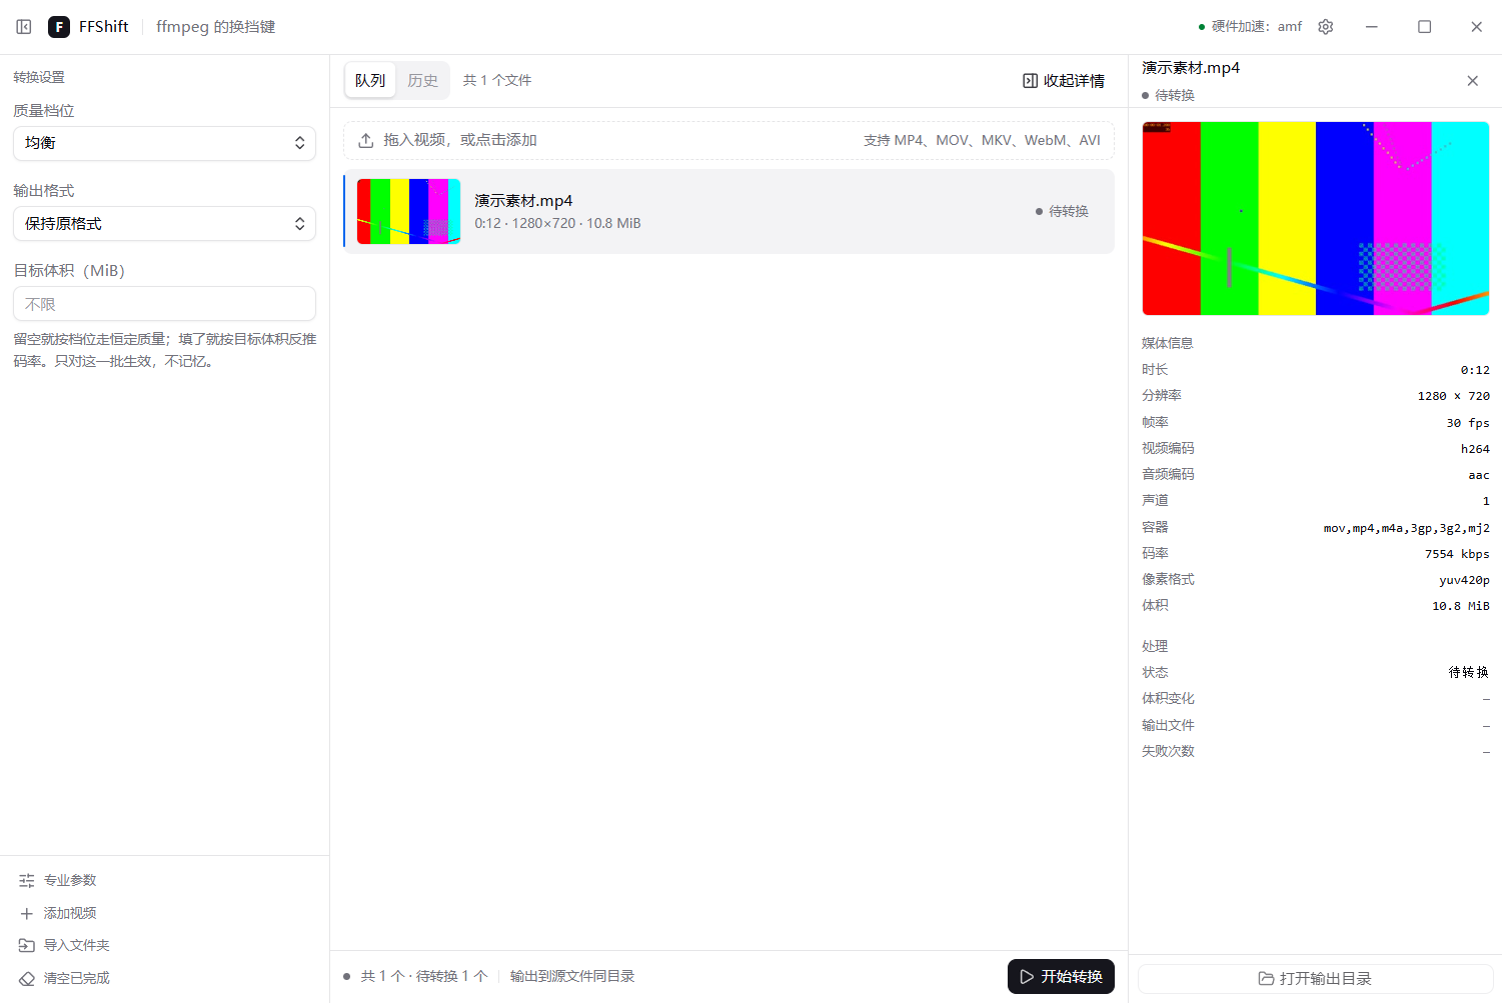
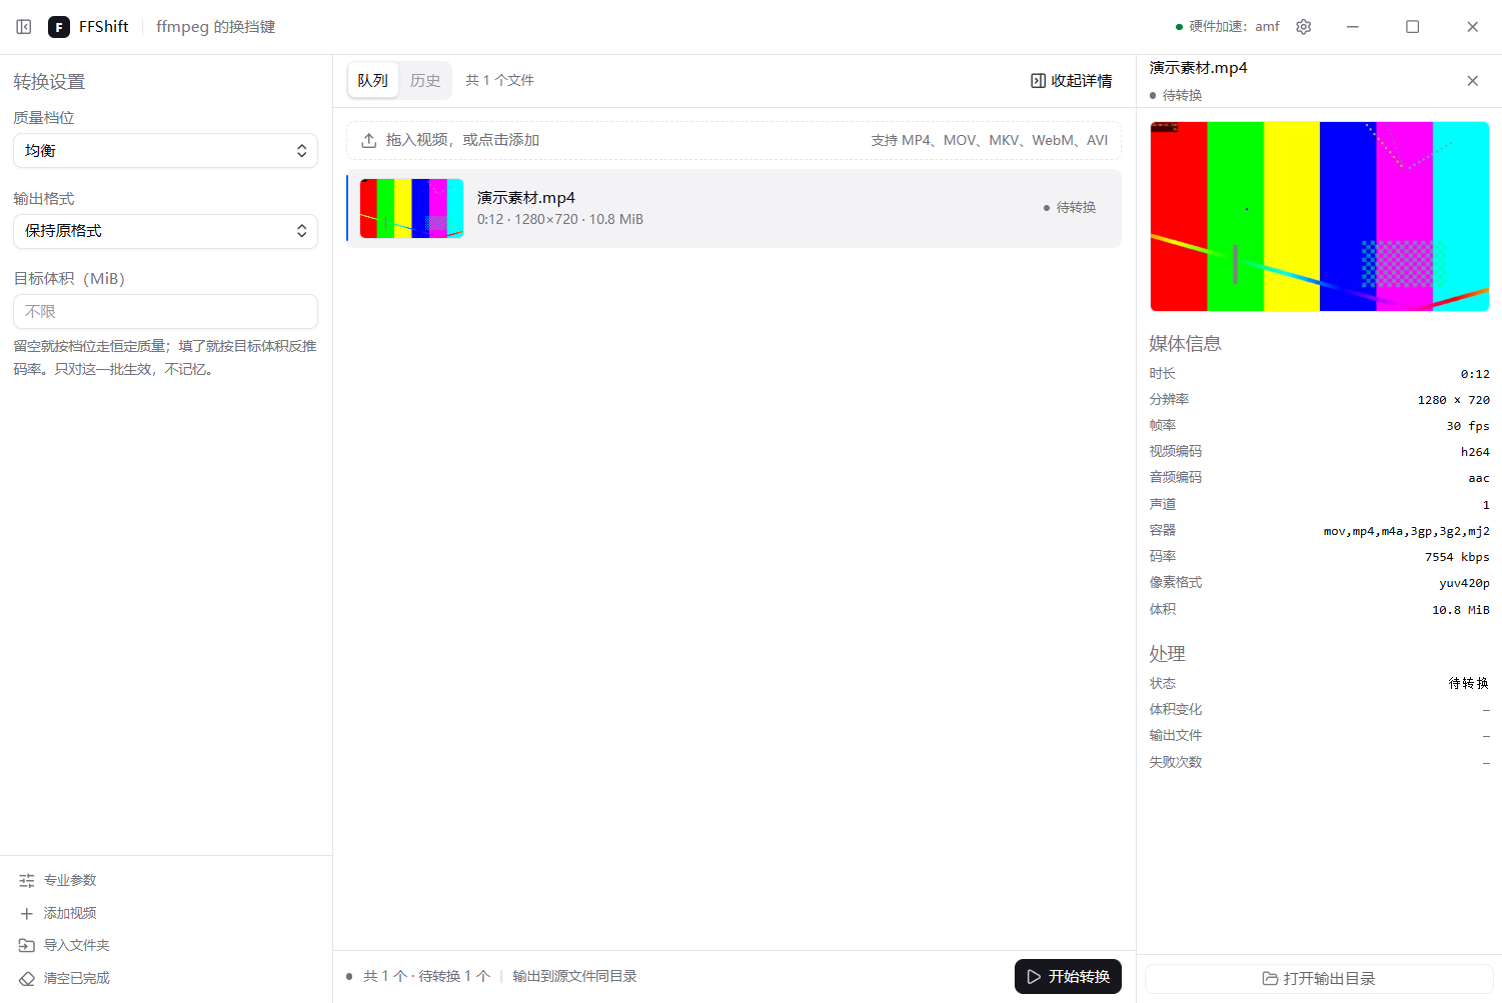
docs: 记下字号做成整体缩放的取舍
ADR-019：为什么是整体缩放而不是只放大文字（这个项目的尺寸全由根字号派生，
单独放大文字就得把每处 padding 拆成两套）、为什么是四档而不是滑块
（滑到 11px 或 19px 的组合没人验过）、以及窗口下限为什么跟着字号走
（实测 940×600 + 16px 会挤成一团，中心栏只剩 290px）。

设计系统里把"该不该跟着缩放"写成一张对照表：文字、间距、控件高度、面板宽度、缩略图
跟着缩放；标题栏高度与窗口按钮写死像素，因为它们要和系统 chrome 对齐。
顺手纠正一处错误：缩略图原先记的是 96×54，实际是 84×54，长宽比也不是 16:9。

界面规格补「外观」里的字号与三处可验证面；测试清单更新到单测 254、e2e 17。

验证：pre-commit 文风检查通过；openspec 的 spec 更新与归档（工具移动目录时遇到
EPERM 失败，spec 已手动合、目录已手动归档，两处都核对过）

Refs: ADR-019

diff --git a/docs/decisions.md b/docs/decisions.md
@@ -26,6 +26,7 @@
 | ADR-016 | 加亮暗两套主题，默认亮色（替代 ADR-007"只发暗色"） | 已接受 |
 | ADR-017 | 移除产品内的 AI 参数建议（替代 ADR-005） | 已接受 |
 | ADR-018 | 主界面与设置页分工：偏好搬进设置页，主界面只留转换 | 已接受 |
+| ADR-019 | 字号做成整体缩放，窗口下限跟着字号走 | 已接受 |
 
 ---
 
@@ -326,6 +327,39 @@
     这个层里现在每个文件都有真实调用点。上游那五十个原语里也有一批零引用的，抄过来就是抄来一堆没人维护的代码。
   - 移除对话框之后 `Z_INDEX` 里的 `MODAL_*` 也删了，但把"下拉必须排在浮层遮罩之上"这条教训留在了
     `src/lib/z-index.ts` 的注释里——将来加对话框的人会在改那个文件时看到它。
+
+---
+
+## ADR-019 · 字号做成整体缩放，窗口下限跟着字号走
+
+- **日期**：2026-09-23
+- **状态**：已接受。补完 ADR-018 留下的设置页，把 ADR-016 的主题那套"首帧即正确"的做法复用到第二个偏好上。
+- **背景**：需求方要求设置页支持调全局字体大小。
+- **决策**：这个项目的尺寸是从一个根字号派生的（`html { font-size: var(--font-size-base) }`，全站 rem），
+  所以"调字号"实现成**整体缩放**：小 13 / 标准 14 / 大 15 / 更大 16，默认标准。
+  同时把三处不跟着缩放的尺寸补齐——两档小字号改成 rem 令牌、两栏面板宽度与缩略图改成 rem、
+  窗口最小尺寸按档位等比放大。标题栏高度与窗口按钮仍是固定像素。
+- **备选**：
+  - 只放大文字、间距不动：做不到。字号大了而控件高度还是原来的，文字会顶到边上；要真做得把每处 padding 都拆成两套；
+  - 连续滑块（12–20px）：滑到 11px 或 19px 的组合没人验过，出了问题也说不清是布局的锅还是比例的锅；
+  - 保持原样、让用户用系统缩放：那是整个应用窗口的缩放，连窗口边框一起放大，控制不了；
+  - 字号上限不设、窗口下限不跟着走：实测 940×600 + 16px 会挤成一团（中心栏只剩 290px，
+    队列头部按钮重叠、底栏换行），不能算"这档能用"。
+- **理由**：整体缩放是这套 rem 体系天然支持的做法，改一个数、全站一致；而"每一档都在最小窗口下排得下"是可以用一条公式保证的，比逐个组件调更不容易烂。
+- **代价**：字号不再是纯粹的排版属性，它影响布局尺寸，所以每个新界面都得在两三个档位下各看一遍；
+  上限卡在 16px（要更大得把窗口拉宽）；字号变大时窗口会自己变大——这是有意的，但需要向用户解释。
+- **反馈**：
+  - **小字不跟缩放是最容易漏的一处**。当时为了对齐上游把标签写成 `text-[10px]`、指标写成 `text-[11px]`，
+    都写死了像素。选"更大"的人往往会发现正文大了、标签没大——而会去调字号的用户，恰恰是看不清这些小字的人。
+    已改成两个语义令牌 `text-label` / `text-metric`（rem 值，14px 基准下正好是 10px / 11px）。
+  - **固定像素不是一律要消灭的**。标题栏 44px、窗口按钮 48px、红绿灯留白这类要和系统对齐的尺寸必须写死，
+    否则缩放之后窗口控制会跟系统不一致。这条在 `docs/design-system.md` 里单独标出来了。
+    顺手修掉一个漏网的：窗口按钮原先是 `w-12`（rem），16px 下会变成 56px，与系统的 46px 对不上，已改成 `w-[48px]`。
+  - 窗口下限的实测：940×600 缩到最小 → 选「更大」→ 窗口被撑到 1076×689、下限 1074×686；
+    再选回「小」→ 下限降到 873×557，当前窗口不动（只放宽，不主动缩，免得打断用户）。
+    端到端里两条用例守着：一条查根字号与重启后的档位，一条直接问主进程要窗口下限。
+  - 顺带纠正了设计文档里一处错误：缩略图原先写的是 96×54，实际是 `w-24`（84px @14）配 `h-[54px]`，
+    两个数都不对，而且长宽比不是 16:9。改成 `h-[3.5rem] w-24` 之后既随字号缩放，比例也对了。
 
 ---
 

diff --git a/docs/design-system.md b/docs/design-system.md
@@ -119,14 +119,26 @@ EnsoCode 把这条做到了极致，本项目直接跟进：
 
 ### 字体
 
-- 正文 `text-sm`（14px 基准下 = 12.25px）／元信息 `text-xs`（10.5px）／**机器产生的数字** `text-[11px]` + `tabular-nums`。
+- 正文 `text-sm`（14px 基准下 = 12.25px）／元信息 `text-xs`（10.5px）／**小节标题** `text-label`（10px）／
+  **机器产生的数字** `text-metric`（11px） + `tabular-nums`。
+- `text-label` 与 `text-metric` 是 rem 令牌而不是 px：它们要跟着字号设置一起放大（ADR-019）。
+  写死 px 的话，选"更大"档的人会看见正文大了、标签没大。
 - 按钮与下拉在窄窗口用 14px，`sm:` 以上收到 12.25px——桌面窗口远宽于 640px，所以实际生效的是后者。
 - 数字统一 `font-variant-numeric: tabular-nums`：进度、体积、码率、耗时对齐后才能扫读。
 - 路径、编码名、日志用 `font-mono`（`JetBrains Mono` → `Consolas` → `ui-monospace`）。
-- 小节标题固定配方：`text-[10px] font-medium tracking-wide text-muted-foreground uppercase`。
-- 根字号 `--font-size-base: 14px`，也就是 **1rem = 14px、0.25rem = 3.5px**：
-  `h-8` = 28px、`gap-2` = 7px、`px-3` = 10.5px。
-  **与窗口系统对齐的尺寸必须写死像素**（标题栏 `h-[44px]`、窗口按钮 `w-12`），不能随根字号漂。
+- 小节标题固定配方：`text-label font-medium tracking-wide text-muted-foreground uppercase`。
+
+**根字号 `--font-size-base` 是用户可调的**（设置 → 外观 → 字号，四档 13/14/15/16px，默认 14）。
+也就是 **1rem = 14px、0.25rem = 3.5px** 是默认值而不是常数：`h-8` = 28px、`gap-2` = 7px、`px-3` = 10.5px，
+字号调大这些全部等比变大。所以写尺寸时先想清楚这一处**该不该跟着缩放**：
+
+| 该缩放（写 rem / Tailwind 数值） | 不该缩放（写死像素） |
+| --- | --- |
+| 文字、间距、控件高度、圆角、图标、面板宽度、缩略图 | 标题栏高度 `h-[44px]`、窗口按钮 `w-[48px]`、与系统 chrome 对齐的任何尺寸 |
+
+后者的理由：无边框窗口的这三个按钮要跟系统窗口长得一样，缩放之后跟系统对不上就很怪。
+另外两栏宽度用的是 `19rem` / `21rem` 这类 rem 值——字号一大，面板跟着变宽，
+不然同样的文字会在同一个宽度里挤成一团（窗口下限也按这个逻辑等比放大，见 `font-scale.ts`）。
 
 ### 间距 / 圆角
 
@@ -137,16 +149,18 @@ EnsoCode 把这条做到了极致，本项目直接跟进：
 
 ### 尺寸阶梯（本项目实际值）
 
+除标了「固定」的，其余都随字号设置等比缩放；括号里是 14px 基准下的像素值。
+
 | 元素 | 尺寸 |
 | --- | --- |
-| 标题栏 | `h-[44px]`，窗口按钮 `w-12` × 3 |
-| 侧栏 / 详情栏头部、工作区头部 | `h-12` |
-| 侧栏宽 264px；详情栏宽 300px | 窗口默认 1200×800，最小 940×600 |
-| 行内图标按钮 | `h-7 w-7` / `h-8 w-8` + `rounded-md` |
+| 标题栏 | `h-[44px]`（固定），窗口按钮 `w-[48px]`（固定）× 3 |
+| 左栏 / 详情栏头部、工作区头部 | `h-12`（42px） |
+| 左栏宽 `19rem`（266px）；详情栏宽 `21rem`（294px） | 窗口默认 1200×800；最小尺寸随字号走，14px 基准下是 940×600 |
+| 行内图标按钮 | `h-7 w-7`（24.5px）/ `h-8 w-8`（28px）+ `rounded-md` |
 | 图标尺寸 | 行内 14px（`h-3.5 w-3.5`）／主按钮与空态 16px（`h-4 w-4`）／chips 12px（`h-3 w-3`） |
-| 缩略图 | 96 × 54（16:9，`rounded-md`）；详情栏里是 `aspect-video` 大图 |
+| 缩略图 | `h-[3.5rem] w-24`（49 × 84，约 16:9，`rounded-md`）；详情栏里是 `aspect-video` 大图 |
 | 进度条 | 槽高 1.5（5.25px）、全圆角 |
-| 底栏（状态 + 主动作） | `border-t` + `px-3 py-2`，文字 `text-[11px] tabular-nums` |
+| 底栏（状态 + 主动作） | `border-t` + `px-3 py-2`，文字 `text-metric tabular-nums` |
 
 ### 动效
 

diff --git a/docs/testing.md b/docs/testing.md
@@ -5,7 +5,7 @@
 
 ## 1. 自动化测试（已落地）
 
-命令：`npm run test:unit`（245 条）、`npm run test:integration`（25 条，真实调用本机 ffmpeg）、`npm run test:e2e`（15 条，驱动真实界面）。
+命令：`npm run test:unit`（254 条）、`npm run test:integration`（25 条，真实调用本机 ffmpeg）、`npm run test:e2e`（17 条，驱动真实界面）。
 集成测试在环境没有 ffmpeg 时整组跳过（`describe.skipIf`），不会挡住协作者。
 
 三层测试的分工：单测盯纯逻辑与参数构造；集成测试盯 ffmpeg 跑不跑得通；端到端盯"界面上点一下，整条链路对不对"。
@@ -17,6 +17,7 @@
 | `src/lib/task-status.test.ts` | 八个状态的标签与色档、状态词与文案契约一致、活跃/结束判定 |
 | `src/lib/ffmpeg-version.test.ts` | 从完整版本串里取版本号：构建标签、git 构建前缀、认不出时的兜底 |
 | `src/lib/theme.test.ts` | 主题两态切换、显示名、窗口底色与令牌的对应、从 argv 认主题的兜底 |
+| `src/lib/font-scale.test.ts` | 字号四档的取值与上限、像素值与档位名的对应、窗口最小尺寸按比例换算、从 argv 认档位 |
 | `src/lib/progress.test.ts` | `key=value` 块解析、`out_time_ms` 实为微秒的坑、流式分块拼接 |
 | `src/lib/ffmpeg-args.test.ts` | 三档预设、硬件加速、无音轨不加音频参数、目标体积反推码率、输出路径 |
 | `src/lib/advanced-params.test.ts` | 参数校验（编码器区间、容器兼容、错误与警告分级）、额外参数边界、设置文件里的容错解析、按输出格式校验 |
@@ -144,3 +145,4 @@ $bytes = [System.IO.File]::ReadAllBytes("fixture_10s.mp4")[0..1048575]
 | 2026-09-23 | 新增设置页，主界面只留转换 | 见 ADR-018 | 待人工确认（验证信息：typecheck 通过、build 通过、单测 245 条全绿（新增 10 条：参数容错解析与按输出格式校验）、e2e 15 条全绿（58.3s，新增 3 条：设置页导航与返回、参数有误挡住开始转换、参数改动落盘）；设置页四个分类与主界面各自截图人工看过） |
 | 2026-09-23 | `313c386` lib: 专业参数可持久化，校验改按输出格式 | 5 个文件 | 待人工确认（验证信息：单测 245 条全绿（新增 10 条）） <!-- commit:313c386 --> |
 | 2026-09-23 | `f08593f` ui: 新增设置页，主界面只留转换 | 17 个文件 | 待人工确认（验证信息：typecheck、build 通过；单测 245 条全绿；e2e 15 条全绿（57.3s）；） <!-- commit:f08593f --> |
+| 2026-09-23 | 设置页加界面字号档位 | 见 ADR-019 | 待人工确认（验证信息：typecheck 通过、build 通过、单测 254 条全绿（新增 9 条：档位取值、窗口下限换算、argv 解析）、e2e 17 条全绿（66.6s，新增 2 条：字号记忆与重启、窗口下限随字号变化）；四档字号各截图人工看过；940×600 + 16px 的挤压问题在窗口下限跟着缩放后消除，实测撑到 1076×689） |

diff --git a/openspec/changes/archive/2026-09-23-add-font-size-setting/proposal.md b/openspec/changes/archive/2026-09-23-add-font-size-setting/proposal.md
@@ -1,0 +1,23 @@
+## Why
+
+需求方要求设置页支持调全局字体大小。
+
+这个项目的尺寸是从一个根字号派生的：`html { font-size: var(--font-size-base) }`，全站的文字、间距、控件高度、圆角都写成 rem。所以"调字号"在这里天然是**整体缩放**——这正是想要的效果，但也带来两个必须一起处理的问题：
+
+1. 有几处小字当时写的是固定像素（`text-[10px]` / `text-[11px]`）。它们不跟着放大，就会出现"正文大了、标签还是原来那么小"——而需要放大字号的用户，往往正是看不清这些小字的人。
+2. 三栏里有两栏是固定宽度面板。940×600 在 14px 下是宽松的，16px 下实测会挤成一团（中心栏只剩 290px，队列头部按钮重叠、底栏换行）。
+
+## What Changes
+
+- 设置页「外观」分类加字号档位：小 13px / 标准 14px / 大 15px / 更大 16px，默认标准
+- 两档小字号改成 rem 令牌（`text-label` ≈ 10px、`text-metric` ≈ 11px），跟着根字号一起放大
+- 两栏面板宽度与缩略图改成 rem，随字号等比缩放；标题栏高度与窗口按钮仍是固定像素——它们要和系统一致
+- **窗口最小尺寸随字号等比放大**（940×600 × 当前档位/14）。字号变大而当前窗口小于新下限时，窗口会被主动撑开
+- 字号与主题一样走"建窗口之前读出来 → 塞进 argv → 首帧前应用"，启动不会先小后大地跳一下
+- 设置文件加 `fontSize` 字段（版本 5 → 6），存的是档位名而不是像素值
+
+## 影响
+
+- 旧设置文件缺该字段时回落成"标准"，行为与升级前一致
+- 窗口在选到更小档位时不会自动缩回去（只放宽下限），避免打断用户
+- 不影响：三档质量、输出格式、目标体积、专业参数、主题

diff --git a/openspec/specs/settings/spec.md b/openspec/specs/settings/spec.md
@@ -60,3 +60,36 @@ TBD - created by archiving change 2026-09-23-add-settings-page. Update Purpose a
 
 - **WHEN** 用户在设置里选了输出目录并返回
 - **THEN** 主界面底栏显示新的输出位置
+### Requirement: 界面字号档位
+
+系统 SHALL 在设置页的「外观」分类里提供界面字号档位：小、标准、大、更大，默认标准。选择 SHALL 被记住。字号 SHALL 作为根字号生效，全站的文字、间距与控件高度 SHALL 一起等比缩放，界面 SHALL NOT 出现"文字放大了但标签还是原来那么小"的情况。
+
+#### Scenario: 切换字号
+
+- **WHEN** 用户在设置里选择「更大」
+- **THEN** 全站文字、间距与控件高度一起变大，根字号为 16px
+
+#### Scenario: 记住选择
+
+- **WHEN** 用户选了「更大」后重启应用
+- **THEN** 首帧就是 16px，不会先小后大地跳一下
+
+#### Scenario: 旧设置文件
+
+- **WHEN** 读取一份没有字号字段的旧设置文件
+- **THEN** 字号为标准档（14px），界面与升级前一致
+
+### Requirement: 窗口下限随字号变化
+
+系统 SHALL 让窗口的最小尺寸随字号档位等比变化，SHALL 保证任一档位下三栏都排得下。当字号调大而当前窗口小于新的下限时，系统 SHALL 把窗口撑到下限。当字号调小时，系统 SHALL 只放宽下限，SHALL NOT 主动缩小用户当前的窗口。
+
+#### Scenario: 小窗口里调大字号
+
+- **WHEN** 用户在 940×600 的窗口里把字号调到「更大」
+- **THEN** 窗口被撑到至少 1074×686，三栏完整可读
+
+#### Scenario: 调小字号
+
+- **WHEN** 用户在「更大」档把字号调回「小」
+- **THEN** 下限变为 873×557，但当前窗口尺寸不变
+

diff --git a/openspec/changes/archive/2026-09-23-add-font-size-setting/specs/settings/spec.md b/openspec/changes/archive/2026-09-23-add-font-size-setting/specs/settings/spec.md
@@ -1,0 +1,34 @@
+## ADDED Requirements
+
+### Requirement: 界面字号档位
+
+系统 SHALL 在设置页的「外观」分类里提供界面字号档位：小、标准、大、更大，默认标准。选择 SHALL 被记住。字号 SHALL 作为根字号生效，全站的文字、间距与控件高度 SHALL 一起等比缩放，界面 SHALL NOT 出现"文字放大了但标签还是原来那么小"的情况。
+
+#### Scenario: 切换字号
+
+- **WHEN** 用户在设置里选择「更大」
+- **THEN** 全站文字、间距与控件高度一起变大，根字号为 16px
+
+#### Scenario: 记住选择
+
+- **WHEN** 用户选了「更大」后重启应用
+- **THEN** 首帧就是 16px，不会先小后大地跳一下
+
+#### Scenario: 旧设置文件
+
+- **WHEN** 读取一份没有字号字段的旧设置文件
+- **THEN** 字号为标准档（14px），界面与升级前一致
+
+### Requirement: 窗口下限随字号变化
+
+系统 SHALL 让窗口的最小尺寸随字号档位等比变化，SHALL 保证任一档位下三栏都排得下。当字号调大而当前窗口小于新的下限时，系统 SHALL 把窗口撑到下限。当字号调小时，系统 SHALL 只放宽下限，SHALL NOT 主动缩小用户当前的窗口。
+
+#### Scenario: 小窗口里调大字号
+
+- **WHEN** 用户在 940×600 的窗口里把字号调到「更大」
+- **THEN** 窗口被撑到至少 1074×686，三栏完整可读
+
+#### Scenario: 调小字号
+
+- **WHEN** 用户在「更大」档把字号调回「小」
+- **THEN** 下限变为 873×557，但当前窗口尺寸不变

diff --git a/docs/ui-spec.md b/docs/ui-spec.md
@@ -182,7 +182,9 @@ Windows 桌面视频格式转换器。用户把视频拖进来，选一个质量
 校验结果显示在参数区**顶部并吸顶**：参数表单有一屏多高，错误提示放底部等于没有。
 同时主界面的「开始转换」会被禁用——错误提示在另一屏，主界面必须自己把人拦住。
 
-**外观**：主题（亮色 / 暗色），分段切换，默认亮色，立即生效并记住。
+**外观**：主题（亮色 / 暗色）与字号（小 / 标准 / 大 / 更大）两个分段切换。
+字号是根字号，全站文字、间距、控件高度一起等比缩放；默认标准（14px），选过记住，重启首帧即正确。
+选大档位时窗口最小尺寸会跟着变大（940×600 × 档位/14），当前窗口偏小时会被撑开。
 
 **关于**：应用版本、ffmpeg 完整版本串（整宽、可换行）、硬件加速状态（＋「重新检测」）。
 
@@ -266,7 +268,7 @@ interface TaskItem {
 | `status-bar` | 主界面底栏 |
 
 **改这些属性等于改测试契约**，要同步改 `e2e/`。
-主题断言看 `<html>` 上的 `dark` 类，或设置页「外观」里 `data-active` 的那个标签。
+主题断言看 `<html>` 上的 `dark` 类，或设置页「外观」里 `data-active` 的那个标签；`theme-option` 与 `font-size-option` 是主题与字号这两个分段切换的锚点。字号的可验证面有三处：`html` 的 `font-size`、设置里的档位名、主进程窗口的 `getMinimumSize()`。
 
 ## 7. 已知与刻意不做
 

diff --git a/openspec/changes/archive/2026-09-23-add-font-size-setting/tasks.md b/openspec/changes/archive/2026-09-23-add-font-size-setting/tasks.md
@@ -1,0 +1,30 @@
+## 1. 数据层
+
+- [x] `FontSize` 档位类型与像素表（`src/lib/font-scale.ts`）
+- [x] 进设置文件（版本 6），存档位名不存像素值
+- [x] `minWindowSize`：按档位算窗口下限
+
+## 2. 应用与接线
+
+- [x] 建窗口之前读字号，塞进渲染进程 argv
+- [x] `main.tsx` 在建 root 之前应用
+- [x] 存设置时同步更新窗口下限，必要时撑开
+
+## 3. 让布局真的跟着缩放
+
+- [x] 两档小字号改成 rem 令牌（`text-label` / `text-metric`）
+- [x] 左栏、详情栏宽度与缩略图改成 rem
+- [x] 标题栏与窗口按钮保持固定像素（要和系统一致）
+
+## 4. 界面
+
+- [x] 设置页「外观」加字号分段切换 + 当前档位说明
+
+## 5. 验证
+
+- [x] `npm run typecheck`
+- [x] `npm run test:unit`
+- [x] `npm run build`
+- [x] `npm run test:e2e`
+- [x] 四档字号各截一张图；最小窗口 + 最大字号那一档确认不再挤成一团
+

diff --git a/README.md b/README.md
@@ -35,7 +35,7 @@ Windows 优先的桌面视频格式转换器。界面用 Electron + React + Type
 - **过程可见**：百分比、剩余时间、速度，随时取消并清理半成品
 - **出错说人话**：磁盘满、目录不可写、格式不兼容、文件损坏各有对应说明
 - **专业参数**：20 项可调参数 + 预设管理，给懂行的人一个入口
-- 设置记忆、亮暗主题、Windows 安装包
+- 设置记忆、亮暗主题、四档界面字号、Windows 安装包
 
 逐条状态见 `docs/testing.md` 的冒烟清单（未实测的条目如实标注）。
 
